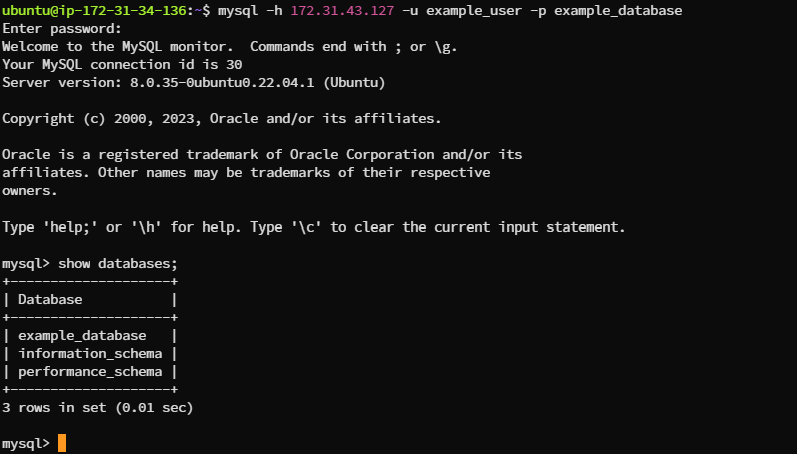
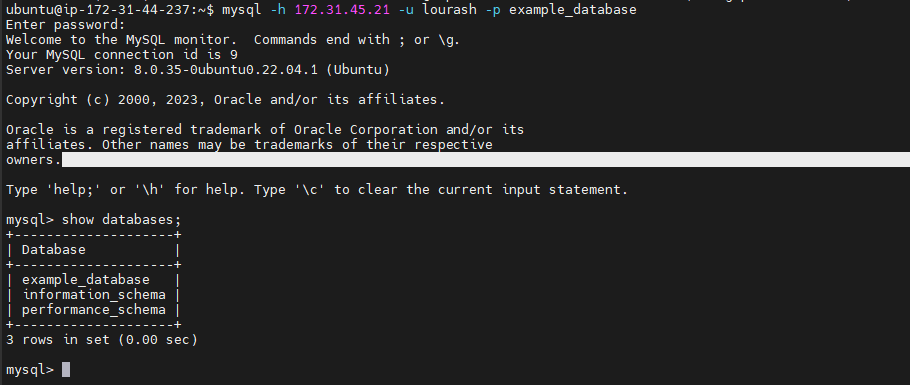
My final commit

diff --git a/README.md b/README.md
@@ -91,9 +91,26 @@ mysql> exit
 
 ![Scripts](./Image/Scripts.png)
 
-You can test if the new user has the proper permissions by logging in to the MySQL console from the MYSQL Client, this time using the custom user credentials:
+5.  Run command below to configure MySQL server to allow connections from remote hosts.
+
+```bash
+sudo vi /etc/mysql/mysql.conf.d/mysqld.cnf
+```
+
+Replace ‘127.0.0.1’ to ‘0.0.0.0’ like this
+
+![Results](./Image/mysqld.png)
+
+
+6.  You can test if the new user has the proper permissions by logging in to the MySQL console from the MYSQL Client, this time using the custom user credentials:
 ```bash
 mysql -h 172.31.43.127 -u lourash -p example_database
+```
+
+7.  Check that you have successfully connected to a remote MySQL server and can perform SQL queries:
+
+```bash
+Show databases;
 ```
 
 ![Database](./Image/MYSQLCLient.png)
